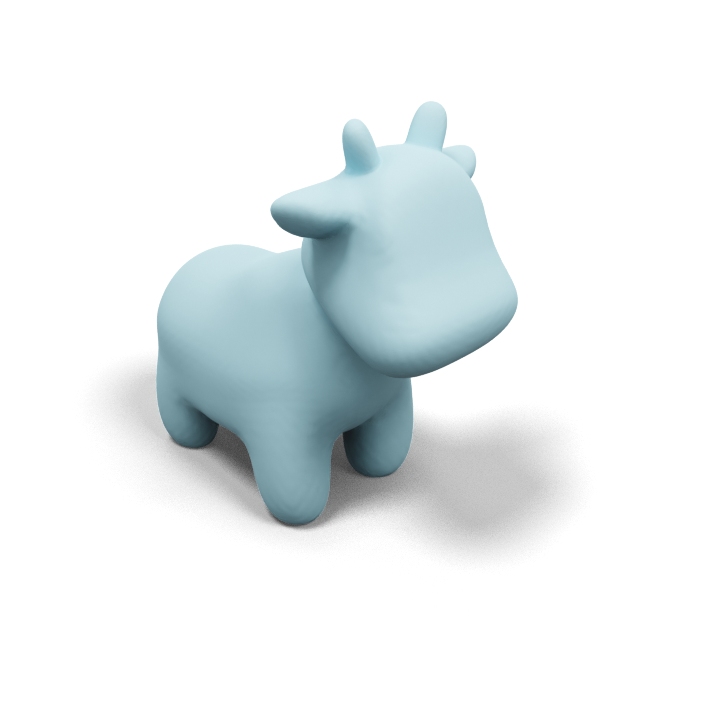
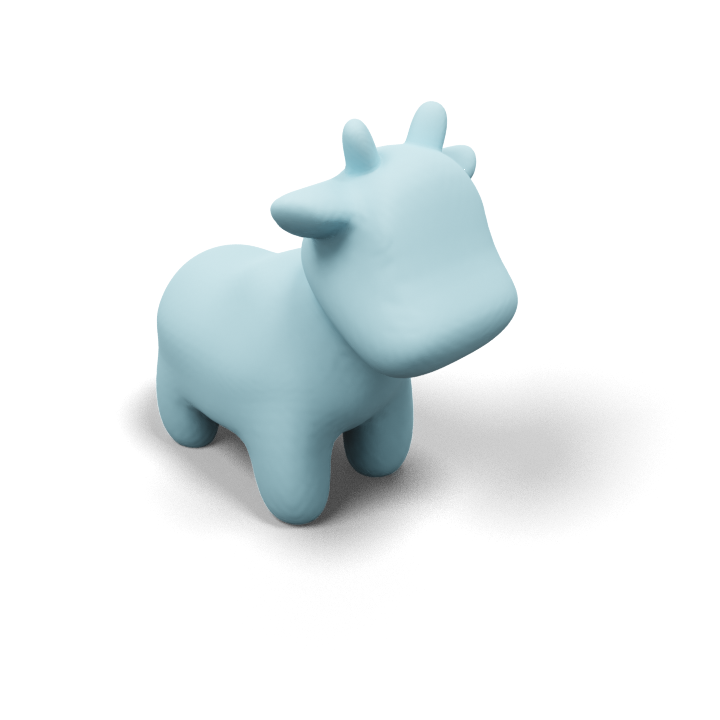
add different side

diff --git a/cycles/demo_envTexture.py b/cycles/demo_envTexture.py
@@ -3,13 +3,13 @@ sys.path.append('/Users/hsuehtil/Dropbox/BlenderToolbox/cycles')
 from include import *
 import bpy
 
-outputPath = './results/demo_threePtLights.png'
+outputPath = './results/demo_amber.png'
 
 # # init blender
 imgRes_x = 720 
 imgRes_y = 720 
 numSamples = 50 
-exposure = 1.5
+exposure = 1.0
 blenderInit(imgRes_x, imgRes_y, numSamples, exposure)
 
 # read mesh 
@@ -29,33 +29,31 @@ subdivision(mesh, level)
 
 # # set material
 # colorObj(RGBA, H, S, V, Bright, Contrast)
-meshColor = colorObj(derekBlue, 0.5, 1.0, 1.0, 0.0, 2.0)
-AOStrength = 0.5
-setMat_singleColor(mesh, meshColor, AOStrength)
+amberRGBA = (100/255.0,75/255.0,0/255.0,255/255.0) 
+meshColor = colorObj(amberRGBA, 0.5, 1.0, 1.0, 0.4, 0.0)
+setMat_amber(mesh, meshColor)
 
 # # set invisible plane (shadow catcher)
 groundCenter = (0,0,0)
-shadowBrightness = 0.8
+shadowDarkeness = 0.7
 groundSize = 20
-invisibleGround(groundCenter, groundSize, shadowBrightness)
+invisibleGround(groundCenter, groundSize, shadowDarkeness)
 
 # # set camera
-camLocation = (2,2,2)
+camLocation = (1.9,2,2.2)
 lookAtLocation = (0,0,0.5)
 focalLength = 45
 cam = setCamera(camLocation, lookAtLocation, focalLength)
 
-# set three lighting system
-keyLoc = 'right'
-setLight_threePoints(radius=4, height=10, intensity=1700, softness=6, keyLoc=keyLoc)
+# # set sunlight
+lightAngle = (-15,-34,-155) 
+strength = 2
+shadowSoftness = 0.1
+sun = setLight_sun(lightAngle, strength, shadowSoftness)
 
 # # set ambient light
-ambientColor = (0.1,0.1,0.1,1)
+ambientColor = (0.2,0.2,0.2,1)
 setLight_ambient(ambientColor)
-
-## set gray shadow to completely white with a threshold (optional)
-alphaThreshold = 0.05
-shadowThreshold(alphaThreshold, interpolationMode = 'CARDINAL')
 
 # # save blender file
 bpy.ops.wm.save_mainfile(filepath='./test.blend')

diff --git a/cycles/utils/setLight_threePoints.py b/cycles/utils/setLight_threePoints.py
@@ -4,14 +4,24 @@ def setLight_threePoints(
     radius = 4, 
     height = 10, 
     intensity = 1700, 
-    softness = 6):
-    bpy.ops.object.light_add(type='POINT', radius=softness, location=(radius,0,height))
-    KeyL = bpy.data.lights['Point']
-    KeyL.energy = intensity
-    bpy.ops.object.light_add(type='POINT', radius=softness, location=(0,radius,0.6*height))
-    FillL = bpy.data.lights['Point.001']
-    FillL.energy = intensity * 0.5
-    bpy.ops.object.light_add(type='POINT', radius=softness, location=(0,-radius,height))
+    softness = 6,
+    keyLoc = 'left'):
+    if keyLoc == 'left':
+        bpy.ops.object.light_add(type='POINT', radius=softness, location=(radius,0,height))
+        KeyL = bpy.data.lights['Point']
+        KeyL.energy = intensity
+        bpy.ops.object.light_add(type='POINT', radius=softness, location=(0,radius,0.6*height))
+        FillL = bpy.data.lights['Point.001']
+        FillL.energy = intensity * 0.5
+        bpy.ops.object.light_add(type='POINT', radius=softness, location=(0,-radius,height))
+    else:
+        bpy.ops.object.light_add(type='POINT', radius=softness, location=(0,radius,height))
+        KeyL = bpy.data.lights['Point']
+        KeyL.energy = intensity
+        bpy.ops.object.light_add(type='POINT', radius=softness, location=(radius,0,0.6*height))
+        FillL = bpy.data.lights['Point.001']
+        FillL.energy = intensity * 0.5
+        bpy.ops.object.light_add(type='POINT', radius=softness, location=(-radius,0,height))
     RimL = bpy.data.lights['Point.002']
     RimL.energy = intensity * 0.1
     return [KeyL, FillL, RimL]

diff --git a/cycles/tutorial.py b/cycles/tutorial.py
@@ -67,7 +67,7 @@ cam = setCamera(camLocation, lookAtLocation, focalLength)
 
 ## set light
 ## Option1: Three Point Light System (recommended)
-setLight_threePoints(radius=4, height=10, intensity=1700, softness=6)
+setLight_threePoints(radius=4, height=10, intensity=1700, softness=6, keyLoc='left')
 ## Option2: simple sun light
 # lightAngle = (-15,-34,-155) 
 # strength = 2

diff --git a/cycles/include.py b/cycles/include.py
@@ -54,6 +54,7 @@ from utils.shadowThreshold import *
 derekBlue = (144.0/255, 210.0/255, 236.0/255, 1)
 coralRed = (250.0/255, 114.0/255, 104.0/255, 1)
 iglGreen = (153.0/255, 203.0/255, 67.0/255, 1)
+caltechOrange = (255.0/255, 108.0/255, 12.0/255, 1)
 royalBlue = (0/255, 35/255, 102/255, 1)
 royalYellow = (250.0/255,218.0/255,94.0/255, 1)
 white = (1,1,1,1)
